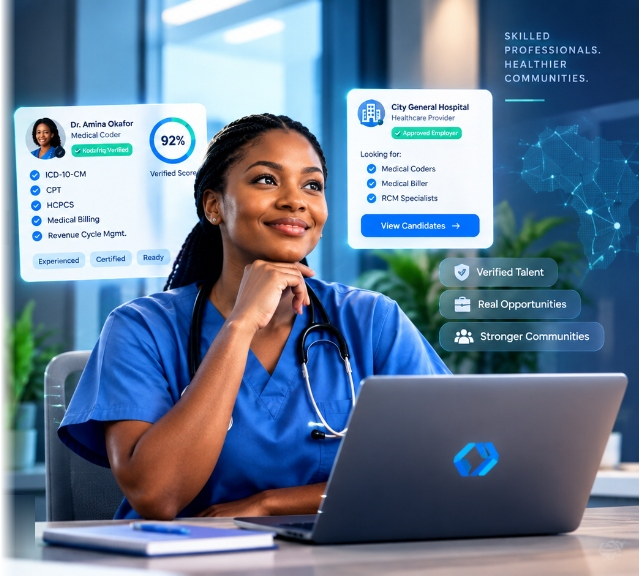
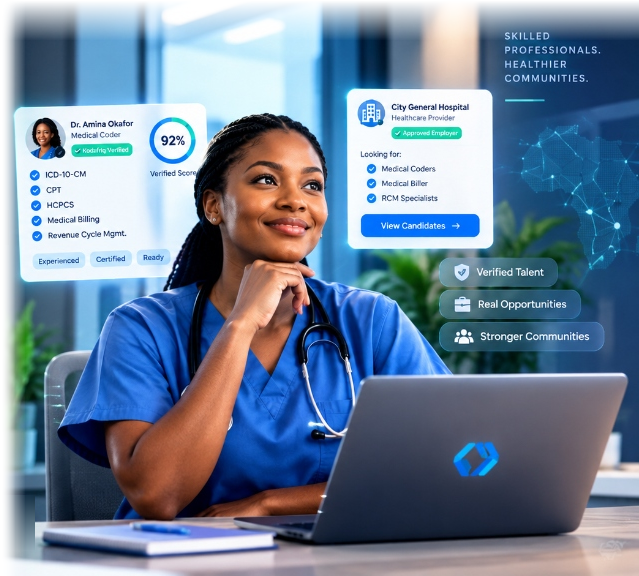
Scale out hero image, reveal table and notebook, ensure full viewport coverage

Changed region(s): [[0.0, 0.0, 1.0, 0.9688]]

diff --git a/static/css/kodafriq.css b/static/css/kodafriq.css
@@ -6573,17 +6573,20 @@ body.kf-dash-body {
    ========================================================================== */
 .kf-hero-mockup-section {
   position: relative;
+  min-height: calc(100vh - 76px);
   background-color: #031024;
-  background-image: url('/static/images/hero_full_mockup_bg.png');
+  background-image: 
+    linear-gradient(to right, rgba(2, 14, 38, 0.92) 0%, rgba(2, 14, 38, 0.80) 36%, rgba(2, 14, 38, 0.25) 56%, transparent 76%),
+    url('/static/images/hero_office_bg.png');
   background-size: cover;
-  background-position: right center;
+  background-position: center bottom;
   background-repeat: no-repeat;
   overflow: hidden;
-  padding: 32px 0 24px 0;
-  min-height: 600px;
   display: flex;
   align-items: center;
   border-bottom: 1px solid rgba(255, 255, 255, 0.08);
+  box-sizing: border-box;
+  padding: 16px 0 0 0;
 }
 
 .kf-hero-mockup-grid {
@@ -6592,10 +6595,11 @@ body.kf-dash-body {
   gap: 30px;
   align-items: center;
   width: 100%;
+  min-height: calc(100vh - 92px);
 }
 
 .kf-hero-mockup-content {
-  padding-bottom: 12px;
+  padding-bottom: 16px;
   position: relative;
   z-index: 2;
 }
@@ -6607,7 +6611,7 @@ body.kf-dash-body {
   letter-spacing: 0.13em;
   color: #38bdf8;
   text-transform: uppercase;
-  margin-bottom: 12px;
+  margin-bottom: 10px;
   display: inline-block;
   line-height: 1.4;
 }
@@ -6616,10 +6620,10 @@ body.kf-dash-body {
 .kf-hero-title-mockup {
   font-size: 3.15rem;
   font-weight: 850;
-  line-height: 1.06;
+  line-height: 1.05;
   letter-spacing: -0.035em;
   color: #ffffff;
-  margin-bottom: 14px;
+  margin-bottom: 12px;
 }
 
 .kf-cyan-glow-text {
@@ -6629,10 +6633,10 @@ body.kf-dash-body {
 
 /* Description */
 .kf-hero-desc-mockup {
-  font-size: 0.98rem;
+  font-size: 0.96rem;
   line-height: 1.55;
   color: #cbd5e1;
-  margin-bottom: 22px;
+  margin-bottom: 20px;
   max-width: 470px;
 }
 
@@ -6641,7 +6645,7 @@ body.kf-dash-body {
   display: flex;
   align-items: center;
   gap: 16px;
-  margin-bottom: 24px;
+  margin-bottom: 22px;
   max-width: 480px;
 }
 
@@ -6694,7 +6698,7 @@ body.kf-dash-body {
   display: flex;
   align-items: center;
   gap: 22px;
-  margin-bottom: 26px;
+  margin-bottom: 24px;
   flex-wrap: wrap;
 }
 
@@ -6801,16 +6805,36 @@ body.kf-dash-body {
   background: rgba(255, 255, 255, 0.15);
 }
 
-/* Right Spacer allows background image (Nurse, cards, laptop, map) to display seamlessly */
+/* Right Visual Column: Nurse, Cards, Laptop, Table */
 .kf-hero-mockup-visual {
-  min-height: 520px;
-  pointer-events: none;
+  display: flex;
+  justify-content: flex-end;
+  align-items: flex-end;
+  height: 100%;
+  width: 100%;
+  overflow: visible;
+}
+
+.kf-hero-visual-img {
+  max-height: calc(100vh - 96px);
+  max-width: 100%;
+  width: auto;
+  height: auto;
+  object-fit: contain;
+  object-position: bottom right;
+  display: block;
+  filter: drop-shadow(0 15px 35px rgba(0, 0, 0, 0.4));
 }
 
 /* Responsive Breakpoints */
 @media (max-width: 1080px) {
+  .kf-hero-mockup-section {
+    min-height: auto;
+    padding: 30px 0;
+  }
   .kf-hero-mockup-grid {
     grid-template-columns: 1fr;
+    min-height: auto;
     gap: 30px;
   }
   .kf-hero-mockup-content {
@@ -6820,14 +6844,16 @@ body.kf-dash-body {
     font-size: 2.75rem;
   }
   .kf-hero-mockup-visual {
-    min-height: 400px;
+    justify-content: center;
+  }
+  .kf-hero-visual-img {
+    max-height: 480px;
   }
 }
 
 @media (max-width: 640px) {
   .kf-hero-mockup-section {
-    padding-top: 24px;
-    background-position: 70% center;
+    padding-top: 20px;
   }
   .kf-hero-title-mockup {
     font-size: 2.2rem;
@@ -6847,5 +6873,8 @@ body.kf-dash-body {
   }
   .kf-trust-divider {
     display: none;
+  }
+  .kf-hero-visual-img {
+    max-height: 380px;
   }
 }

diff --git a/templates/core/home.html b/templates/core/home.html
@@ -153,9 +153,11 @@
                 </div>
             </div>
 
-            <!-- Right Column Spacer: allows the nurse, cards, laptop & office background to display -->
-            <div class="kf-hero-mockup-visual" aria-hidden="true">
-                <!-- Visual space for background composite (Nurse, Dr. Amina card, Hospital card, badges, map) -->
+            <!-- Right Column: Visual Composite with Nurse, Cards, Laptop, Notebook & Desk -->
+            <div class="kf-hero-mockup-visual">
+                <img src="{% static 'images/hero_nurse_composite.png' %}" 
+                     alt="Verified Healthcare Talent Platform - Kodafriq" 
+                     class="kf-hero-visual-img">
             </div>
         </div>
     </div>
